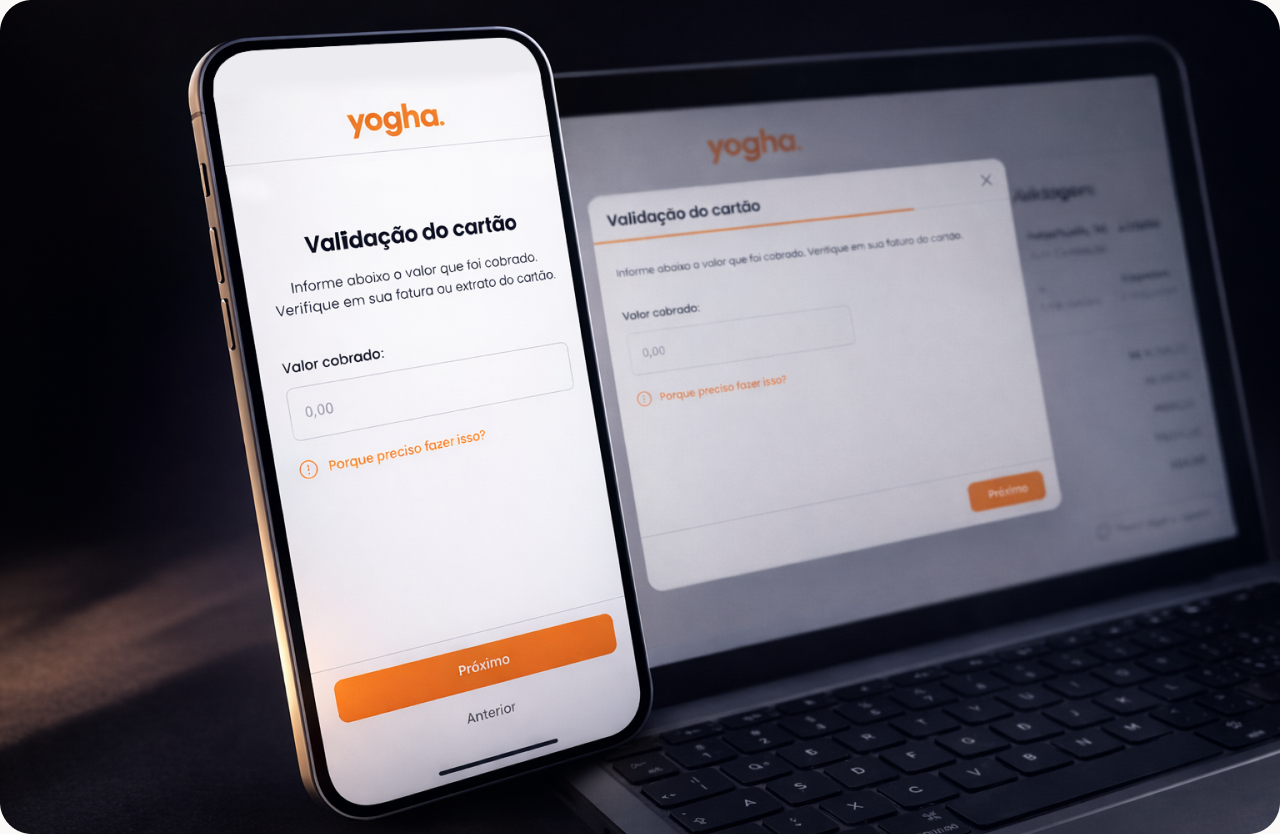
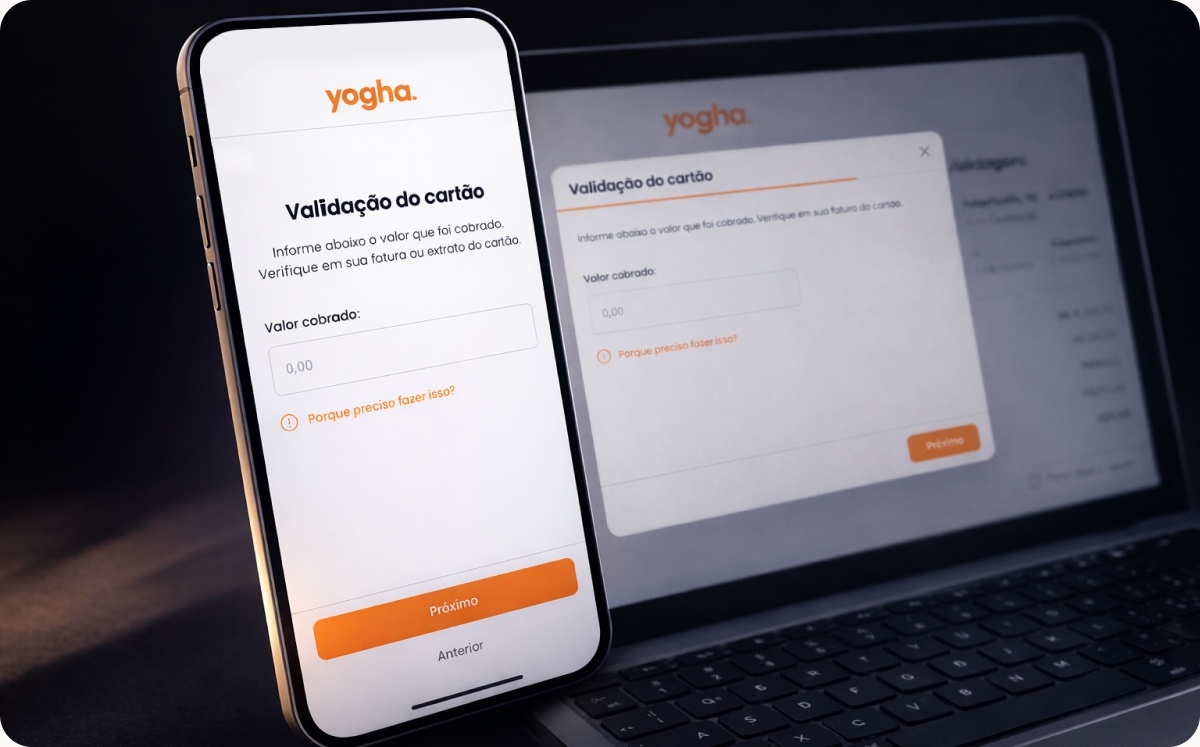
Aplica nova versao do case Yogha (Figma 242:813)
- Textos: hero, contribuicao, restricoes (Prazo/Escopo/Tecnico), pesquisa
  (2 cards), decisao (intro + tabela de 3 linhas), MVP (intro, bullets
  e fechamento) e correcoes gramaticais, PT e EN
- Imagens re-exportadas do Figma: hero 1200/747, tabela de disputas
  movida da Pesquisa para o Problema, dashboard do Outcome; imagem do
  fluxo do MVP removida da pagina
- Novo token semantico `success` (#54975E) na badge "VALIDADA" de todos
  os cases; cards de hipotese ganham variante "strong" (Yogha)
- Texto em neutral-800 da Decisao em diante no Yogha (bodyTone "soft")
- Espacamentos: 24px dentro das secoes, 24px entre imagem e cards e
  entre os 2 cards do Outcome, 8px/40px na Decisao
- Estratégia: ajuste do espaco calculado a mao para o novo gap de 24px

diff --git a/src/content.config.ts b/src/content.config.ts
@@ -61,6 +61,15 @@ const caseStudies = defineCollection({
 		platformEn: z.string().optional(),
 		contributionEn: z.string().optional(),
 
+		// Tom do texto corrido da Decisão em diante: "soft" = neutral-800
+		// (Yogha, Figma 242:813), "default" = neutral-900 (Estratégia).
+		bodyTone: z.enum(["default", "soft"]).default("default"),
+
+		// Parágrafo introdutório da seção "Decisão", acima da tabela (Figma
+		// 822:527, Yogha).
+		decisionIntro: z.string().optional(),
+		decisionIntroEn: z.string().optional(),
+
 		// Tabela "Decisão" (Figma node 252:33) — estrutura fixa demais pra
 		// virar prosa MDX, consumida direto pelo TradeoffTable.astro.
 		decisions: z
@@ -144,13 +153,16 @@ const caseStudies = defineCollection({
 			)
 			.optional(),
 
-		// Seção "O que foi entregue (MVP)" (Figma node 292:310) — imagem do
-		// fluxo + bullets ficam em frontmatter (não em prosa MDX) porque
-		// dividem espaço com os vídeos abaixo, que também são dados
-		// estruturados.
-		mvpImage: z.string().optional(),
+		// Seção "O que foi entregue (MVP)" (Figma node 292:310) — parágrafo de
+		// abertura + bullets + parágrafo final ficam em frontmatter (não em
+		// prosa MDX) porque dividem espaço com os vídeos abaixo, que também
+		// são dados estruturados.
+		mvpIntro: z.string().optional(),
+		mvpIntroEn: z.string().optional(),
 		mvpBullets: z.array(z.string()).optional(),
 		mvpBulletsEn: z.array(z.string()).optional(),
+		mvpOutro: z.string().optional(),
+		mvpOutroEn: z.string().optional(),
 		// Vídeos do MVP (Figma nodes 275:249/293:5 — placeholders vazios no
 		// arquivo original, o usuário envia os arquivos reais depois).
 		mvpVideos: z

diff --git a/src/styles/global.css b/src/styles/global.css
@@ -13,6 +13,9 @@
 	--color-neutral-900: #1f1e1d;
 	--color-neutral-950: #0f0e0d;
 	--color-brand-500: #b67c3a;
+	/* Status positivo (ex: badge "VALIDADA" dos cards de hipótese) —
+	   Figma 869:722 do case Yogha; token semântico em DESIGN.md. */
+	--color-success: #54975e;
 
 	/* Semantic aliases — @DESIGN.md declara estes nomes como aliases dos
 	   tokens neutral e brand acima; mantidos como custom properties
@@ -98,6 +101,13 @@
 body {
 	background-color: var(--color-neutral-50);
 	color: var(--color-neutral-900);
+}
+
+/* Cor do texto corrido dentro das seções de case (CaseSection) — default
+   neutral-900; o Yogha usa neutral-800 da Decisão em diante (Figma 242:813),
+   escolhido por case via `tone="soft"` em CaseSection. */
+:root {
+	--case-text: var(--color-foreground-on-light);
 }
 
 /*

diff --git a/DESIGN.md b/DESIGN.md
@@ -10,6 +10,7 @@ colors:
   neutral-900: "#1F1E1D"
   neutral-950: "#0F0E0D"
   brand-500: "#B67C3A"
+  success: "#54975E"
   background-light: "{colors.neutral-50}"
   background-dark: "{colors.neutral-950}"
   foreground-on-light: "{colors.neutral-900}"
@@ -250,6 +251,11 @@ components:
     textColor: "{colors.neutral-500}"
     rounded: "{rounded.full}"
     padding: "5px 12px"
+  badge-status-success:
+    backgroundColor: "{colors.success}"
+    textColor: "#FFFFFF"
+    rounded: "{rounded.full}"
+    padding: "5px 12px"
 ---
 
 # Design System — Portfólio Marcelo Henrique
@@ -295,7 +301,7 @@ Só existe um nível de elevação no sistema (`{elevation.sm}`), usado nos elem
 - **case-cover-image**: imagem de capa do case, `rounded.xl` no desktop e `rounded.lg` no mobile
 - **language-toggle**: PT/EN — segmento ativo com fundo escuro sólido, inativo sem fundo
 - **hypothesis-card**: card da seção "Pesquisa" de um case (uma por hipótese testada) — fundo `neutral-100`, `rounded.card` (20px), rótulo "HIPÓTESE N" + `badge-status` no topo
-- **badge-status**: pill de status dentro do `hypothesis-card` (ex: "VALIDADA"/"REFUTADA") — fundo `neutral-200`, texto `neutral-500`, tipografia `caption`
+- **badge-status**: pill de status dentro do `hypothesis-card` (ex: "VALIDADA"/"REFUTADA") — fundo `neutral-200`, texto `neutral-500`, tipografia `caption`. Status "VALIDADA" usa a variante `badge-status-success` (fundo `success`, texto branco; Figma 869:722); os demais status continuam neutros
 
 *(novos componentes entram aqui conforme forem extraídos de novas telas do Figma — sempre com estado idle + hover + disabled quando existir)*
 
